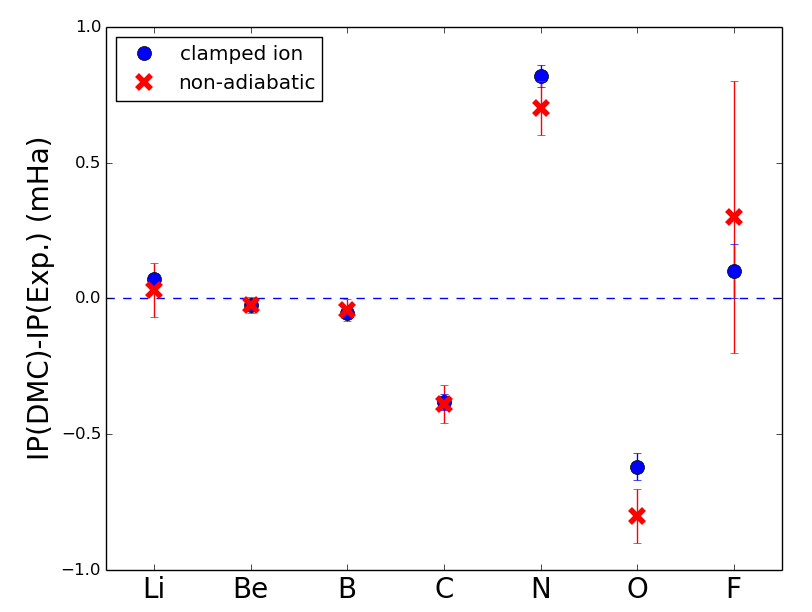
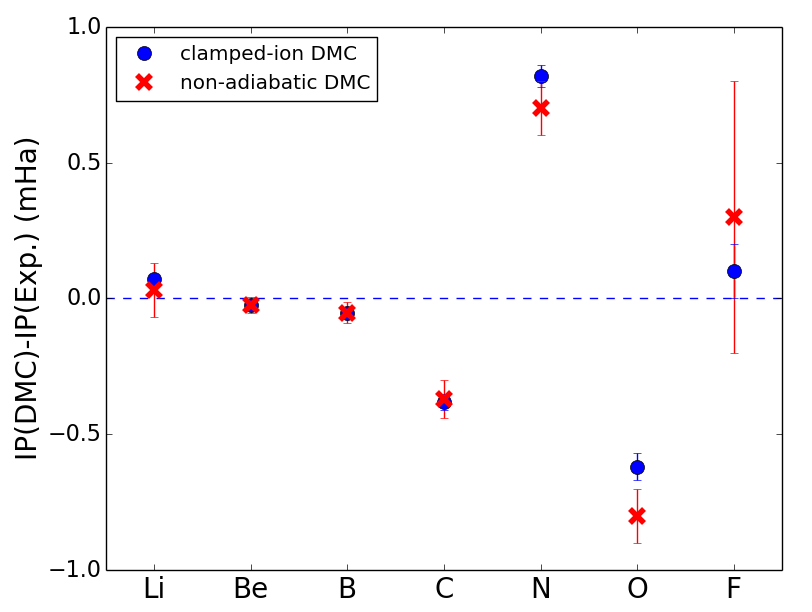
Updated with extrapolated numbers
No qualitative change. Quantitative changes are on the order of 0.01mHa.

Bolded numbers are subject to change.
1. O+ and F+ were not extrapolated
2. N and O were only extrapolated with 2 points

diff --git a/Table/atoms.tex b/Table/atoms.tex
@@ -46,7 +46,7 @@ $E_{\text{ref}}$ \cite{Davidson_Atoms,Wang_Li,Stanke_Be,Bubin_B} &  \text{-}7.47
 \multicolumn{1}{c}{} &
 \multicolumn{1}{c}{} &
 \multicolumn{1}{c}{} \\
-FN-DMC & \text{-}7.47742(1) & \text{-}14.66643(2) & \text{-}24.65244(3) & \text{-}37.84277(6) & \text{-}54.58655(8) & \text{-}75.0631(1) & \text{-}99.7290(4) \\
+FN-DMC & \text{-}7.47742(1) & \text{-}14.66633(2) & \text{-}24.6521(1) & \text{-}37.8428(1) & \text{-}54.5867(1) & \text{-}\textbf{75.0631(1)} & \text{-}99.7301(5) \\
 \hline
 
 \multicolumn{1}{c}{Ion} & 
@@ -77,7 +77,7 @@ $E_{\text{ref}}$ \tnote{d} \cite{Davidson_Atoms,Puchalski_Be+,Bubin_B+,Bubin_C+}
 \multicolumn{1}{c}{} &
 \multicolumn{1}{c}{} &
 \multicolumn{1}{c}{} \\
-FN-DMC & \text{-}7.2793(1) & \text{-}14.32386(2) & \text{-}24.34750(3) & \text{-}37.42904(4) & \text{-}54.05182(9) & \text{-}74.56336(8) & \text{-}99.0885(3) \\
+FN-DMC & \text{-}7.2793(1) & \text{-}14.66643(2) & \text{-}24.34748(3) & \text{-}37.42901(4) & \text{-}\textbf{54.05182(9)} & \text{-}\textbf{74.56336(8)} & \text{-}\textbf{99.0885(3)} \\
 \hline
 \multicolumn{1}{c}{} & 
 \multicolumn{1}{c}{} &
@@ -96,7 +96,7 @@ IP (FN-DMC) & 0.19814(1) & 0.34257(1) & 0.30493(1) & 0.41374(3) & 0.53482(4) & 0
 \multicolumn{1}{c}{} &
 \multicolumn{1}{c}{} &
 \multicolumn{1}{c}{} \\
-IP (FN-DMC) & 0.1981(1) & 0.34257(3) & 0.30494(4) & 0.41373(7) & 0.5347(1) & 0.4997(1) & 0.6405(5) \\
+IP (FN-DMC) & 0.1981(1) & 0.34257(3) & 0.30493(4) & 0.41375(7) & \textbf{0.5347(1)} & \textbf{0.4997(1)} & \textbf{0.6405(5)} \\
 IP (Exp.) \cite{Davidson_Atoms} & 0.19807 & 0.342593 & 0.304982 & 0.41412 & 0.5340 & 0.5005 & 0.6402 \\
 \hline\hline
 \end{tabular}

diff --git a/main.tex b/main.tex
@@ -63,8 +63,14 @@ where $a$ is a contraction coefficient for the ion wave function that we optimiz
 
 \begin{figure}
 \centering
-\includegraphics[scale=.4]{Figures/atom-ECG}
-\caption{Ground state energy of B,$\text{B}^+$ and $\text{C}^+$ calculated with non-adiabatic FN-DMC compared to ECG results.~\cite{Bubin_B,Bubin_B+,Bubin_C+} The ECG reference energies are chosen to be the origins of the y-axes. \label{fig:ECG-atoms}}
+\includegraphics[scale=.4]{Figures/ad-ECG}
+\caption{Ground state energy of Be,$\text{Be}^+$,B,$\text{B}^+$ and $\text{C}^+$ calculated with clamped-ion FN-DMC compared to ECG results.~\cite{Stanke_Be,Puchalski_Be+,Bubin_B,Bubin_B+,Bubin_C+} The ECG reference energies are chosen to be the origins of the y-axes. \label{fig:ad-atoms}}
+\end{figure}
+
+\begin{figure}
+\centering
+\includegraphics[scale=.4]{Figures/nad-ECG}
+\caption{Ground state energy of Be,$\text{Be}^+$,B,$\text{B}^+$ and $\text{C}^+$ calculated with non-adiabatic FN-DMC compared to ECG results.~\cite{Bubin_BeH_noBO,Bubin_B,Bubin_B+,Bubin_C+} The ECG reference energies are chosen to be the origins of the y-axes. \label{fig:nad-atoms}}
 \end{figure}
 
 \subsection{Ground State Energies}
